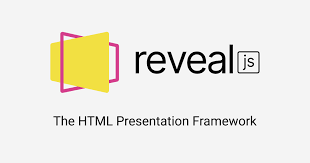
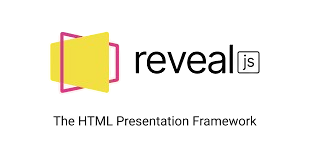
presentqtion donne

diff --git a/presentaion/reveal-js/index.html b/presentaion/reveal-js/index.html
@@ -8,7 +8,7 @@
 
 		<link rel="stylesheet" href="dist/reset.css">
 		<link rel="stylesheet" href="dist/reveal.css">
-		<link rel="stylesheet" href="dist/theme/sky.css">
+		<link rel="stylesheet" href="dist/theme/white-contrast.css">
 		<link rel="stylesheet" href="css/style/index.css">
 
 		<!-- Theme used for syntax highlighted code -->

diff --git a/presentaion/reveal-js/css/style/index.css b/presentaion/reveal-js/css/style/index.css
@@ -1,4 +1,12 @@
-#apprentissage > p {
-    display: flex;
-    background-color: rgb(13, 13, 12);
+
+#apprentissage + p {
+   display: flex;
+   justify-content: space-between;
+}
+
+#apprentissage + p > img{
+    width: 40%;
+}
+#formateur + p > img{
+    width: 70%;
 }

diff --git a/presentaion/reveal-js/presentation.md b/presentaion/reveal-js/presentation.md
@@ -11,6 +11,12 @@
 
 ---
 
+### Apprentissage
+![Soli-lms](../image/git-submodule.png "ux-design")
+![Soli-lms](../image/github.png "ux-design")
+![Soli-lms](../image/reveal-js.png "ux-design")
+
+---
 ###  Plan
 
 
@@ -23,7 +29,30 @@
 | **Friday**     | TEST /VALIDATION       |    TEST / VALIDATION     |      FILL ROUGE /tuto3           |
 
 ---
-### Apprentissage
-![Soli-lms](../image/git-submodule.png "ux-design")
-![Soli-lms](../image/soli-lms.png "ux-design")
-![Soli-lms](../image/soli-lms.png "ux-design")
+### Empathie
+![Soli-lms](../image/images.png "ux-design")
+
+--
+ #### formateur
+![Soli-lms](../image/carte-empathie-formateur.svg "ux-design")
+
+--
+ #### apprenent
+![Soli-lms](../image/carte-empathie-apprenant.svg "ux-design")
+
+---
+### Definition
+![Soli-lms](../image/definition.png "ux-design")
+
+---
+### ideation 
+![Soli-lms](../image/ideation.png "ux-design")
+
+---
+### cas d'utulisation
+---
+### diagrame du class 
+---
+### realisation
+---
+### conclution
